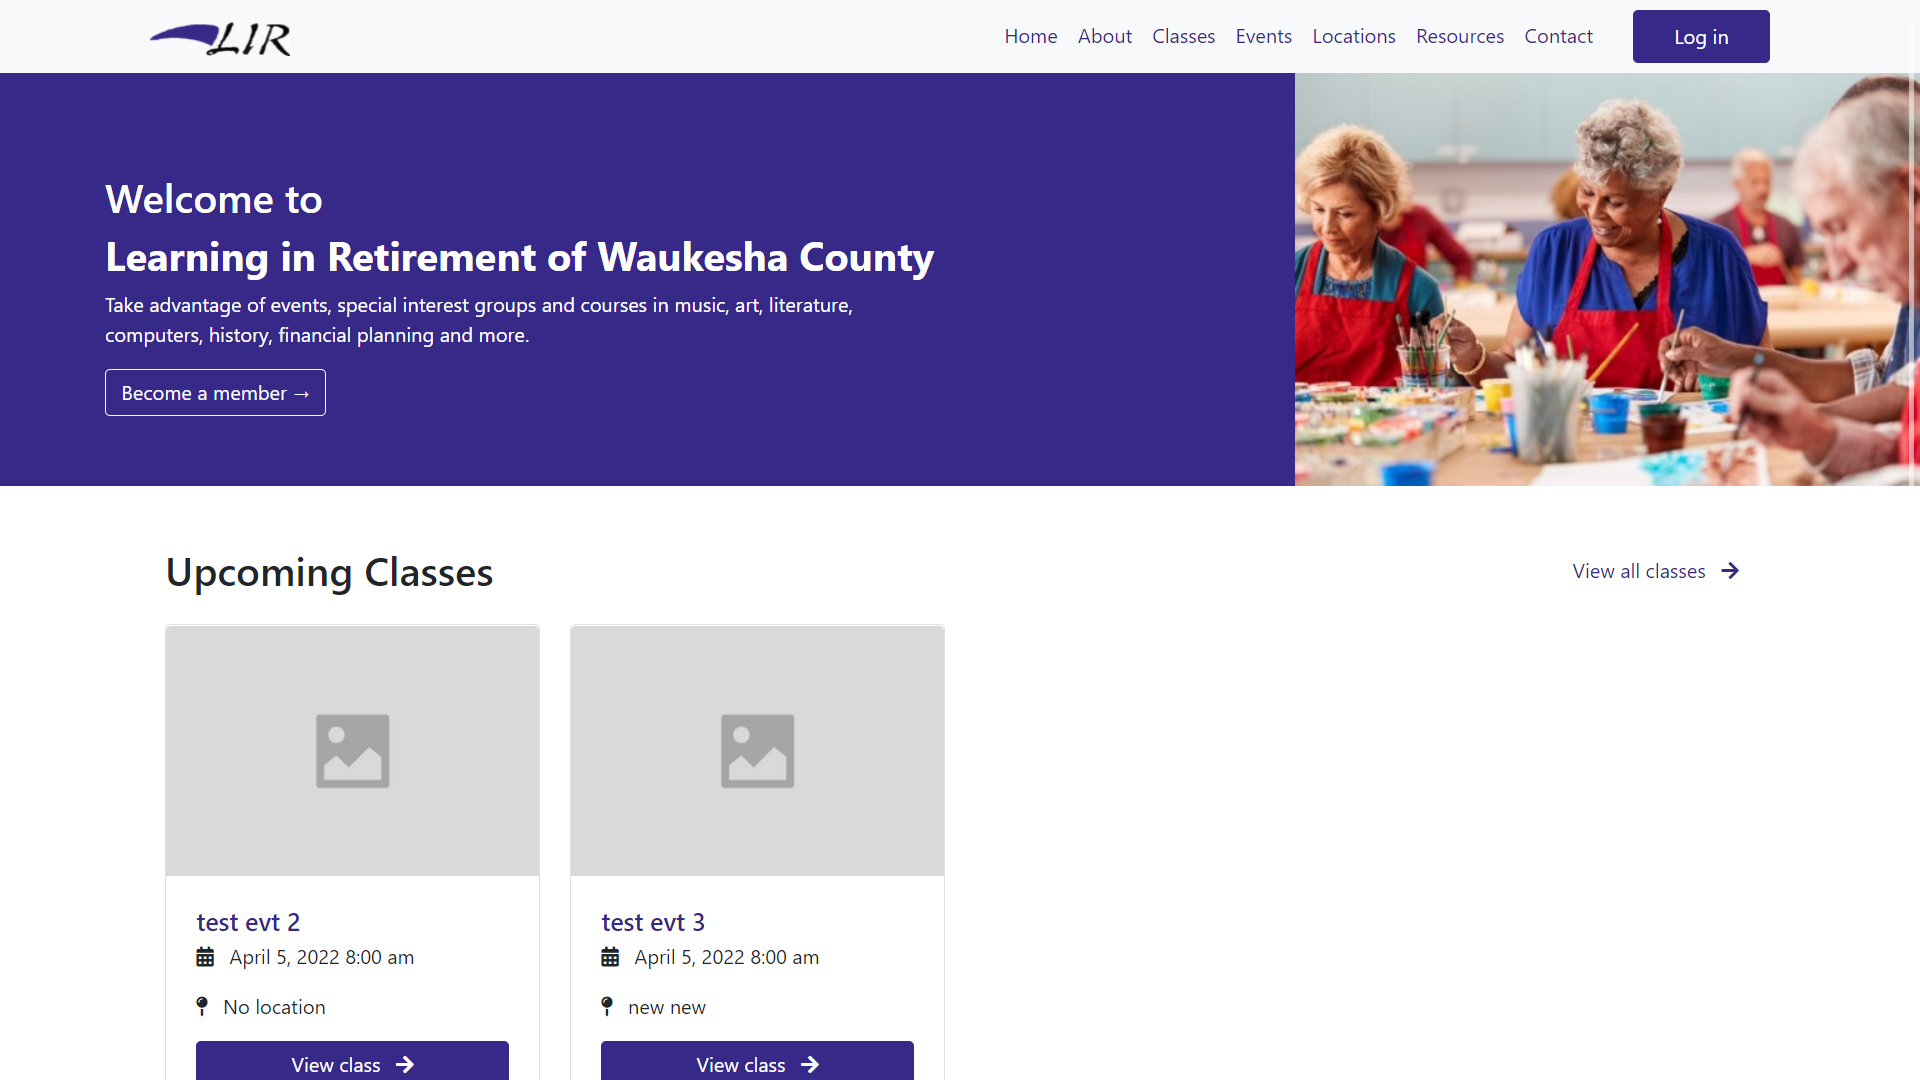
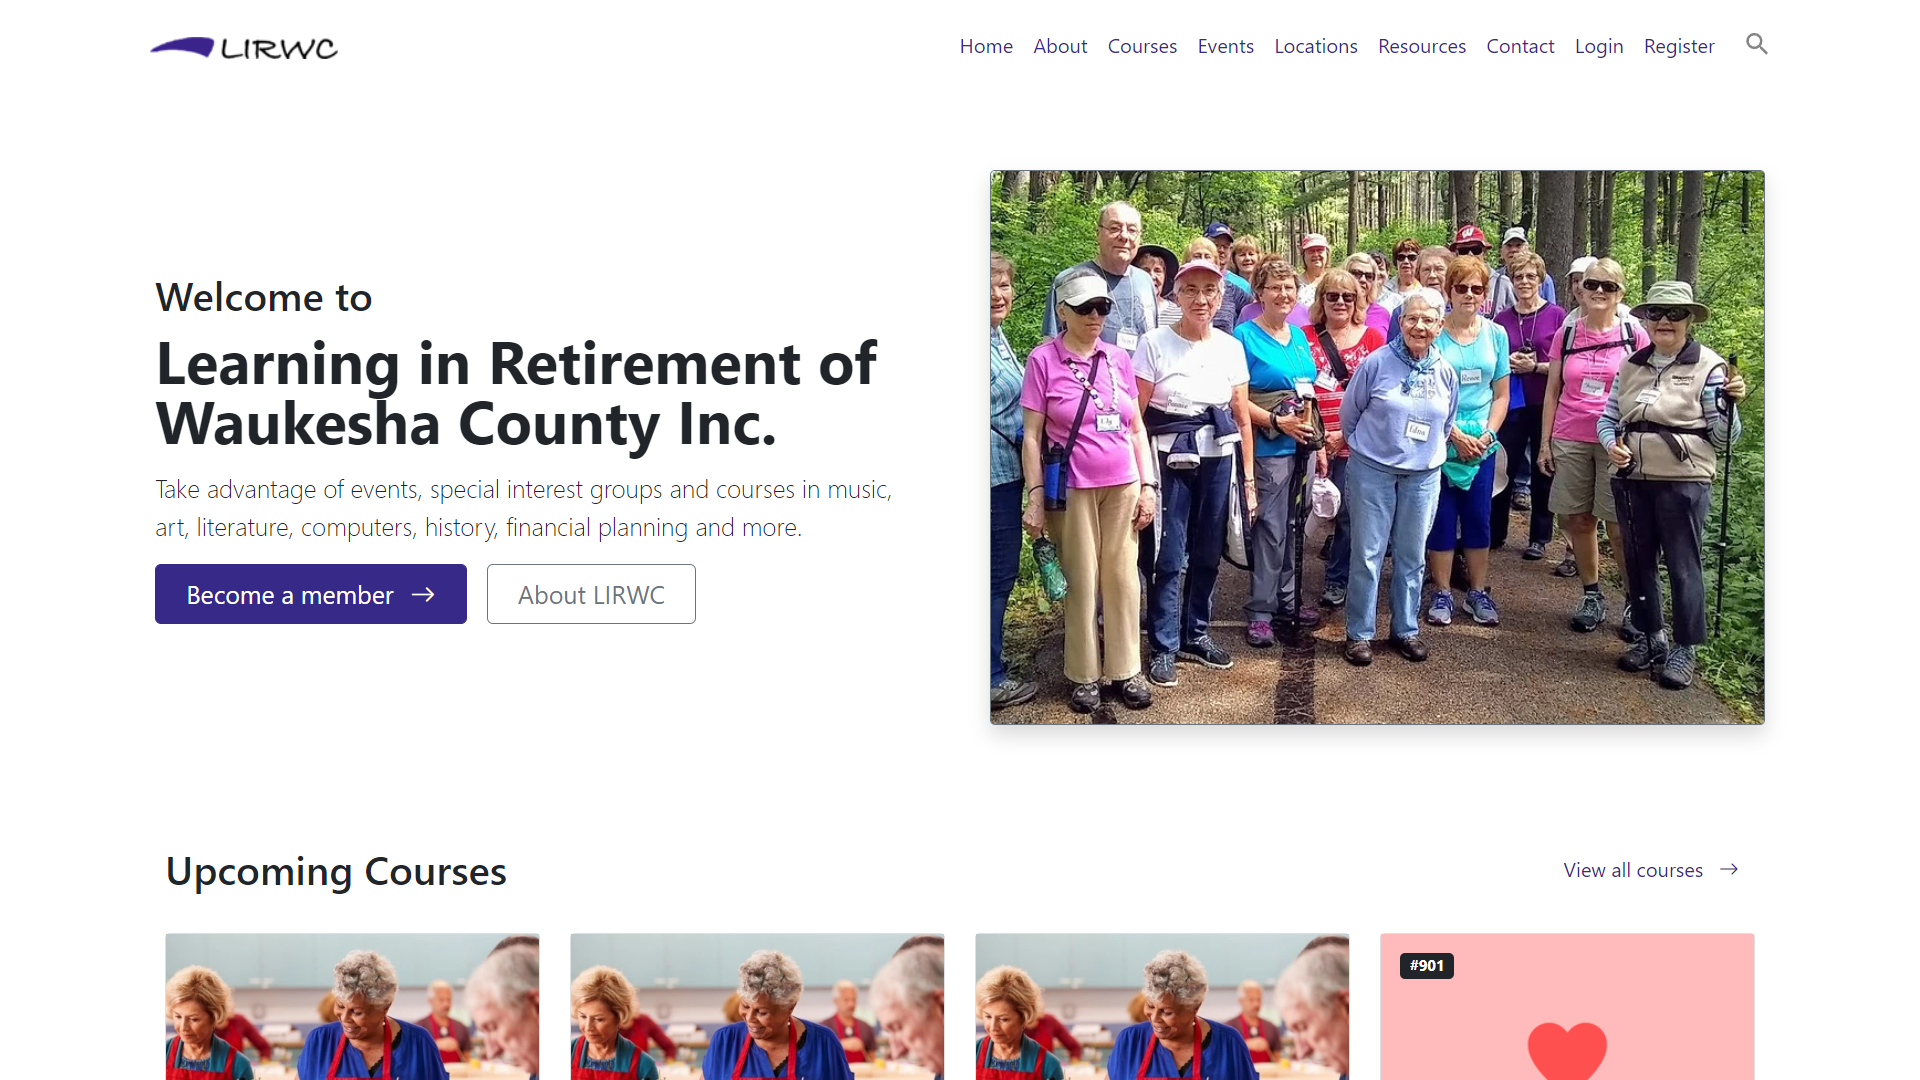
Added LIRWC screenshots

diff --git a/config.php b/config.php
@@ -87,11 +87,19 @@ $projects = [
         "url" => "",
         "github" => "",
         "protected" => false,
-        "short_desc" => "Task management platform",
+        "short_desc" => "Customer toolbox tracking platform",
         "lang" => ['HTML', 'CSS', 'JavaScript', 'ASP.NET', 'C#', 'JSON', 'Oracle SQL', 'DBeaver', 'Confluence', 'Visual Studio', 'Mercurial', 'jQuery', 'Bootstrap'],
-        "description" => "TODO",
+        "description" => "During my time at Snap-on Incorporated, I was responsible for the development of a new web application, Coordinator, that allows franchisees to track products and toolboxes owned by customers on their routes, for later use during Snap-on promotional events and sales. The application gives franchisees an overview of each customer's profile and their currently owned products, with additional information including product colors, brand, purchase date, and model number. Coordinator is built using Bootstrap, JavaScript, C#, AJAX, and an API backend, allowing for a quick and responsive experience for franchisees.",
         "screenshots" => [
-
+            ['01', 'Shop and customer profile view'],
+            ['02', 'Customer products view'],
+            ['03', 'Type-specific products view'],
+            ['04', 'Brand selection view'],
+            ['05', 'Model number selection view'],
+            ['06', 'Product color selection view'],
+            ['07', 'Product trim color selection view'],
+            ['08', 'Product purchase date selection view'],
+            ['09', 'Edit customer attributes view']
         ],
     ],
     "dune" => [
@@ -214,7 +222,17 @@ $projects = [
         "lang" => ['WordPress', 'PHP', 'MySQL', 'Sass', 'Google Analytics', 'Event Espresso', 'AR Member'],
         "description" => "This project consists of a client website, designed and developed for Learning in Retirement of Waukesha County. LIRWC reached out in regard to development of a new site, including a membership system that would allow new users to join LIRWC online and allow existing members to sign up for courses and events hosted by the organization.<br><br>The project includes a large amount of custom development and was built using WordPress, with a custom Bootstrap theme. In order move a majority of LIRWC's member and course information over to an online format, an integration between the Event Espresso and AR Member plugins were established to manage member accounts and allow LIRWC to list course offerings that members can register for with their account. A variety of custom shortcodes and page templates were developed and integrated for greater flexibility using WordPress development best practices.<br><br>Besides custom WordPress development, this project also consisted of importing LIRWC's current database of ~500 members and potential members into the new site, along with current year courses and events. Domain transfers, hosting and SSL certificate setup, and the creation of new email inboxes were also completed as part of this development project.",
         "screenshots" => [
-
+            ['01', 'LIRWC homepage'],
+            ['02', 'All courses page'],
+            ['03', 'Single course page'],
+            ['04', 'All events page'],
+            ['05', 'All locations page'],
+            ['06', 'Single location page'],
+            ['07', 'Resources page'],
+            ['08', 'Course and event search page'],
+            ['09', 'Single category page'],
+            ['10', 'Single staff member page'],
+            ['11', 'Your Registrations page']
         ],
     ],
 ];
